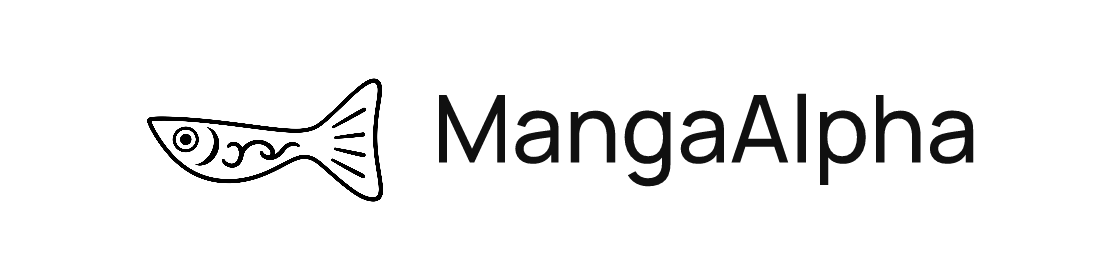
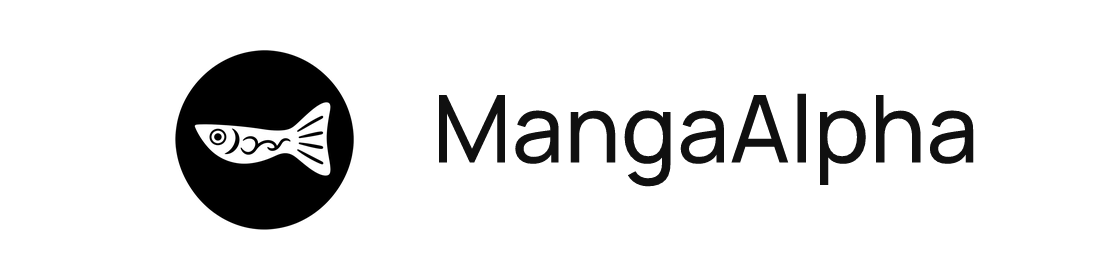
chore(v2.1): refresh MangaAlpha artwork and Android preview notes

Changed region(s): [[0.125, 0.1714, 0.3438, 0.8286]]

diff --git a/internal/httpserver/static/web_error.html b/internal/httpserver/static/web_error.html
@@ -5,6 +5,7 @@
   <meta name="viewport" content="width=device-width,initial-scale=1">
   <meta name="color-scheme" content="light dark">
   <title>暂时无法显示 · MangaAlpha</title>
+  <link rel="icon" type="image/png" href="/ui/mangaalpha-icon.png">
   <link rel="stylesheet" href="/assets/web.css">
 </head>
 <body>

diff --git a/internal/httpserver/static/web_404.html b/internal/httpserver/static/web_404.html
@@ -5,6 +5,7 @@
   <meta name="viewport" content="width=device-width,initial-scale=1">
   <meta name="color-scheme" content="light dark">
   <title>页面不存在 · MangaAlpha</title>
+  <link rel="icon" type="image/png" href="/ui/mangaalpha-icon.png">
   <link rel="stylesheet" href="/assets/web.css">
 </head>
 <body>

diff --git a/web/reader/apply-host.py b/web/reader/apply-host.py
@@ -90,6 +90,16 @@ export default defineConfig(() => ({
     html_text = idx_html.read_text(encoding="utf-8")
     html_text = html_text.replace('<html lang="en">', '<html lang="zh-CN">')
     html_text = html_text.replace("<title>Suwayomi</title>", "<title>阅读器 · MangaAlpha</title>")
+    ui_icon = host_dir.parent.parent / "internal" / "httpserver" / "static" / "ui" / "mangaalpha-icon.png"
+    shutil.copyfile(ui_icon, root / "public" / "mangaalpha-icon.png")
+    upstream_tab_icons = (
+        '<link rel="icon" type="image/png" href="/favicon-96x96.png" sizes="96x96" />\n'
+        '        <link rel="icon" type="image/svg+xml" href="/favicon.svg" />\n'
+        '        <link rel="shortcut icon" href="/favicon.ico" />'
+    )
+    if upstream_tab_icons not in html_text:
+        raise RuntimeError(f"Expected tab icons not found in {idx_html}")
+    html_text = html_text.replace(upstream_tab_icons, '<link rel="icon" type="image/png" href="/mangaalpha-icon.png" />', 1)
     if "<style>" not in html_text:
         html_text = html_text.replace(
             "</head>",

diff --git a/docs/ANDROID.md b/docs/ANDROID.md
@@ -4,8 +4,8 @@
 
 ## 下载与安装
 
-1. 正式版从 [GitHub Releases](https://github.com/xJogger/MangaAlpha/releases) 下载 `mangaalpha-arm64.apk`。签名预览版则从 **Android APK preview** 的 `mangaalpha-android-signed` 工件解压取得；不要下载或尝试安装 unsigned 工件。
-2. 安装目标为 Android 8.0+ 的 ARM64 手机。MangaAlpha 使用 `io.github.xjogger.mangaalpha`，与旧的 Fake Komga 115 调试版是两个独立应用，不共用数据。今后同包名的正式签名包可以覆盖更新（无需卸载）；卸载会删除该应用的数据库、缓存和设置。
+1. 从 [GitHub Releases](https://github.com/xJogger/MangaAlpha/releases) 下载随服务端版本发布的 Android 预览包 `mangaalpha-arm64.apk`。分支上的签名预览则从 **Android APK preview** 的 `mangaalpha-android-signed` 工件解压取得；不要下载或尝试安装 unsigned 工件。
+2. 安装目标为 Android 8.0+ 的 ARM64 手机。MangaAlpha 使用 `io.github.xjogger.mangaalpha`，与旧的 Fake Komga 115 调试版是两个独立应用，不共用数据。后续同包名、同证书的签名包可以覆盖更新（无需卸载）；卸载会删除该应用的数据库、缓存和设置。
 3. 第一次打开先设管理员。可以添加 115、WebDAV，或在「管理后台 → 书库 → 本地」点「选择手机目录」并允许读取。应用只保存系统授权的 URI，无需全盘权限或 Shizuku。权限撤销后，用系统选择器重新选择同一个目录即可重新授权；不必删除书库。
 
 ## 运行约束和验证清单
@@ -14,6 +14,13 @@
 - 数据库、封面、Range 和页面缓存各自保存在应用私有目录，与服务器部署完全独立。SQLite 临时文件也写入应用私有缓存目录，不移动主数据库。请按手机余量调整缓存上限。锁屏、离开界面时可借助前台服务继续任务；从通知或管理后台可手动停止，也可在系统应用设置中停止。系统或设备厂商仍可能结束进程；不随开机启动。
 - APK 内的 Go 服务只监听设备回环地址，另有应用内部凭据防止其他本机应用直接访问，不用它向局域网或外部漫画客户端提供服务。
 - 安装试用时至少检查：首次设密、选目录并扫描、重启后目录授权仍有效、撤销权限后不会清空旧书库、从本地/115/WebDAV 各打开一卷、切到后台和通知停止、系统 16 KB 内存页设备能启动。CI 会校验签名、APK ZIP 对齐与 ARM64 Go 库 ELF 对齐，但不代替这些真机验证。
+
+## 2.1 预览版已知问题
+
+- 手机连接同机的 CloudDrive2 WebDAV 时，曾出现扫库中途停止、已有条目能刮削但阅读器加载不出页面。
+- 手机本地目录（SAF）曾出现授权、扫库和刮削正常，但部分归档打不开。
+
+这两种情况仍待分别排查，尚未确定是否有关联。当前 APK 不提供应用内诊断日志导出。
 
 ## 开发与签名
 

diff --git a/README.md b/README.md
@@ -85,7 +85,7 @@
 
 ### 方式一：Windows 下载即用
 
-1. 从 [Releases](https://github.com/xJogger/MangaAlpha/releases/latest) 下载文件名以 `_windows_amd64.zip` 结尾的压缩包（例如 `fake-komga-115_v2.0.0_windows_amd64.zip`）并解压。
+1. 从 [Releases](https://github.com/xJogger/MangaAlpha/releases/latest) 下载文件名以 `_windows_amd64.zip` 结尾的压缩包（例如 `fake-komga-115_v2.1.0_windows_amd64.zip`）并解压。
 2. 双击运行 `fake-komga-115.exe`，默认浏览器会自动打开 `http://127.0.0.1:25600/` 并引导完成首次管理员用户名与密码设置。
 3. 数据默认存储在 `%LOCALAPPDATA%\fake-komga-115\data`。
 
@@ -110,7 +110,7 @@ docker run -d \
   -v fake-komga-115-data:/data \
   -v /share/manga:/manga:ro \
   -e TZ=Asia/Shanghai \
-  blacktal/fake-komga-115:v2.0.0
+  blacktal/fake-komga-115:v2.1.0
 ```
 
 项目改名不改变镜像名、服务端可执行文件或已有数据路径。已有容器升级时，请保留挂载在 `/data` 的原数据卷。建议固定使用版本标签，避免自动更新工具在未备份时跨大版本升级。首次启动后同样需要在网页设置管理员。
@@ -126,9 +126,11 @@ make build
 ./fake-komga-115
 ```
 
-### Android 独立版
+### Android 独立预览版
 
 从 [Releases](https://github.com/xJogger/MangaAlpha/releases/latest) 下载 `mangaalpha-arm64.apk`（ARM64；或前往 Actions 下载签名预览包）。它在手机本机运行，支持手机目录、115 和 WebDAV，不与家里的服务器同步。构建、安装和限制见 [Android 预览版](docs/ANDROID.md)。
+
+**已知问题（2.1 预览）**：在手机上连接同机 CloudDrive2 时，扫库可能中途停止，已入库的漫画也可能加载不出页面。通过系统目录选择器（SAF）添加的本地书库，部分漫画即使已成功扫库、刮削，也可能无法读取。两种情况仍待排查。
 
 ### 命令行参数与环境变量
 
@@ -205,6 +207,10 @@ systemctl --user start fake-komga-115
 - **[CloudDrive2](https://www.clouddrive2.com/)**：提供了高性能的云盘挂载与标准 WebDAV 服务支持，让多种网盘通过 WebDAV 流式接入漫画书库更加便捷。
 - **[Mihon](https://mihon.app/) 与 [Koharia](https://github.com/Mister-album/Koharia)**：优秀的移动端与跨平台漫画阅读客户端，推动了 Komga 生态的普及与打磨。
 - **Go 核心开源库**：感谢 [`modernc.org/sqlite`](https://gitlab.com/cznic/sqlite)（纯 Go 无 CGO SQLite 引擎）、[`nwaples/rardecode`](https://github.com/nwaples/rardecode)（纯 Go RAR4/RAR5 解码器）、[`go-chi/chi`](https://github.com/go-chi/chi) 与 Go 标准库及 `golang.org/x` 团队。
+
+<p align="center">
+  <img src="docs/images/mangaalpha-stamp.png" alt="MangaAlpha 的 Café Alpha 风格线稿小鱼印章" width="96">
+</p>
 
 ---
 

diff --git a/docs/release-notes/v2.1.0.md b/docs/release-notes/v2.1.0.md
@@ -2,8 +2,12 @@
 
 原 fake-komga-115 更名为 **MangaAlpha**。现有服务端二进制名、Docker 镜像 `blacktal/fake-komga-115`、端口、配置与数据目录不变；Mihon / Koharia 不必重配。
 
-- **Android 独立版**：ARM64，支持手机目录（系统只读授权）、115 和 WebDAV，内置书架与阅读器，可通知后台运行和停止。不依赖家中服务端或同步其书库。签名安装包为 `mangaalpha-arm64.apk`；首个正式包与此前调试版是两个独立应用。Android 扫库使用应用私有 SQLite 临时目录，修复找不到临时路径（6410）时报错的问题。
+Android 图标、网页导航、浏览器标签页和项目 Banner 统一换为黑底白鱼；README 保留另一款线稿鱼印章。
+
+- **Android 独立预览版**：ARM64，支持手机目录（系统只读授权）、115 和 WebDAV，内置书架与阅读器，可通过前台服务在后台运行，并可从通知停止。不依赖家中服务端或同步其书库。签名安装包为 `mangaalpha-arm64.apk`；可覆盖使用同一证书和包名的签名预览，但与旧调试版是两个独立应用。Android 扫库使用应用私有 SQLite 临时目录，修复找不到临时路径（6410）时报错的问题。
 - **书架体验**：首页区块独立加载，书库列表不再等待分类选项；常用查询有缓存和异步预热，「继续阅读」改为从进度表查询。
 - **Bangumi**：按排名排序，未收录排名靠后；网页可选合并同一 Subject ID 的作品，再进入详情切换版本。原始系列、卷及进度保持独立，Komga 客户端列表不合并。
 - **封面**：作品页可生成首卷第一页封面；书库可批量仅补缺封面且未绑定 Bangumi 的系列，本地 / SMB 默认全库，115 / WebDAV 默认最近更新 5 部。
 - **WebDAV 修复**：测试连接、创建及编辑账号时各发送正确的字段，支持完整邮箱用户名；新增书库时能进入和选用任意层级的 WebDAV 子目录；设置页补充同手机 CloudDrive2 的地址示例。
+
+**Android 预览已知问题**：接入手机同机 CloudDrive2 时，扫库可能中途停止，已入库的漫画也可能加载不出页面；通过 SAF 添加手机本地目录时，有个别漫画已扫库并刮削但无法阅读。这两种情况仍待排查。
